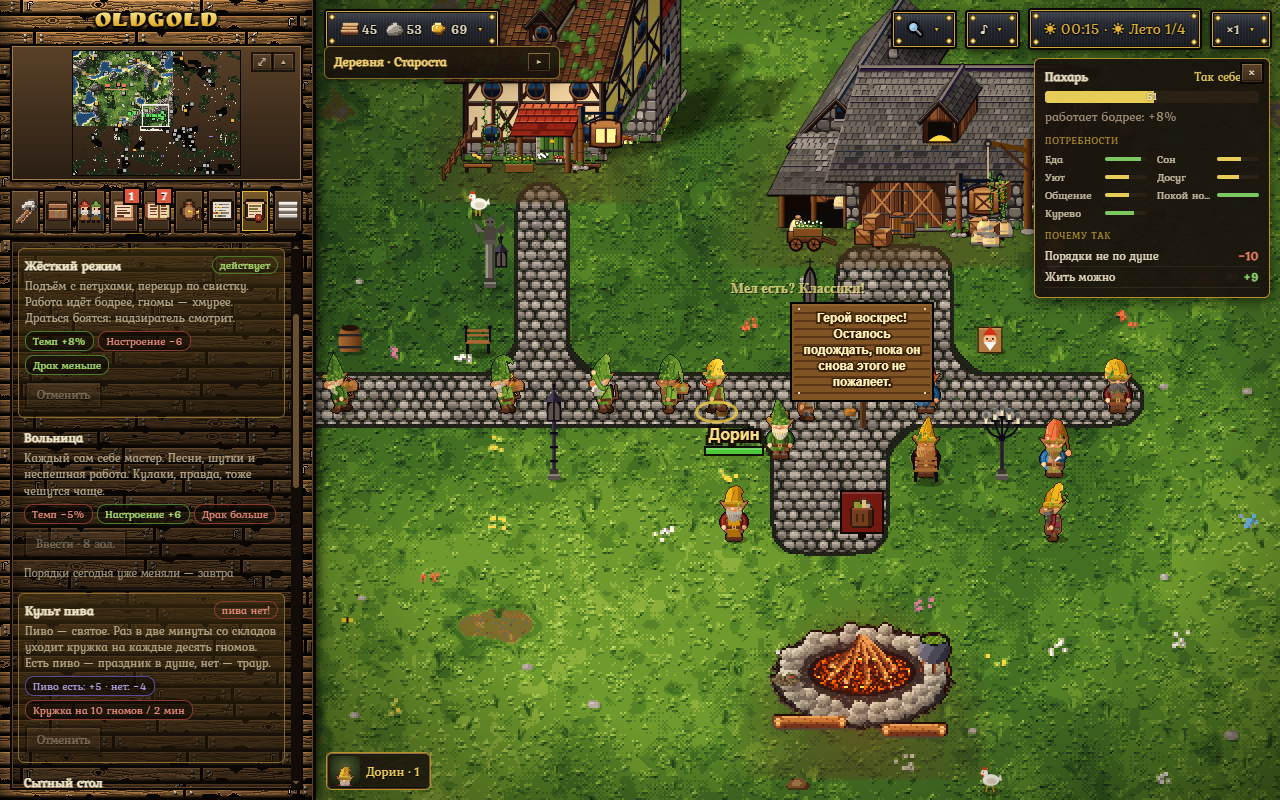
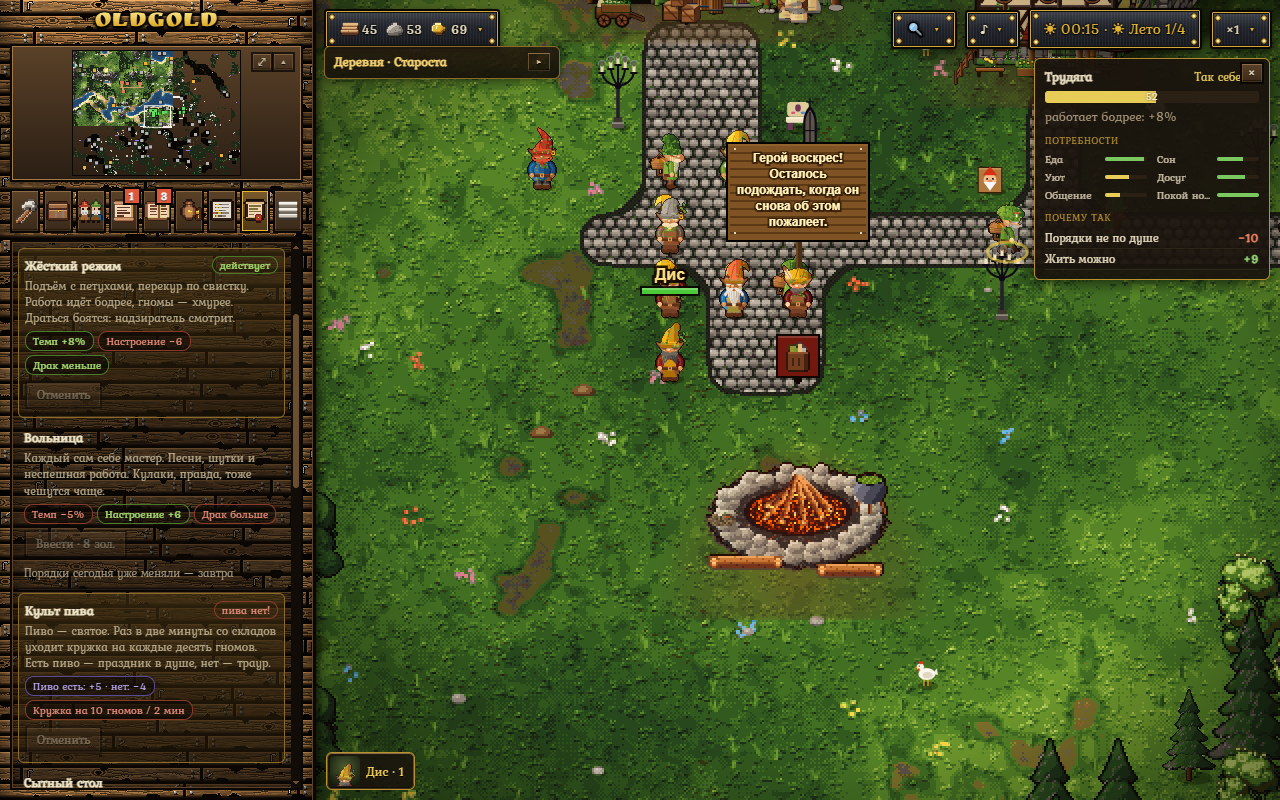
Табличка воскрешения: «когда он снова об этом пожалеет»; пересняты кадры поста 0.10.28

diff --git a/js/i18n/en-hero.js b/js/i18n/en-hero.js
@@ -179,7 +179,7 @@ I18N.add('en', {
   "Добро пожаловать обратно. Смерть тебе, видимо, не понравилась.": "Welcome back. Death, apparently, wasn't your thing.",
   "Гном возродился. Склад об этом пока не в курсе.": "A gnome has respawned. The storehouse isn't aware yet.",
   "Место для воскрешений. Скидок нет, гарантии тоже.": "A place for resurrections. No discounts, no warranty either.",
-  "Герой воскрес! Осталось подождать, пока он снова этого не пожалеет.": "The hero is back! Now we wait until they regret it again.",
+  "Герой воскрес! Осталось подождать, когда он снова об этом пожалеет.": "The hero is back! Now we wait until they regret it again.",
   "У костра тепло, а у гнома — привычка искать приключения.": "The bonfire is warm, and the gnome has a habit of seeking adventure.",
   "Смерть была неплоха, но ты решил продолжить. Смелое решение.": "Death wasn't bad, but you decided to carry on. Bold choice.",
   "Здесь выдают гномов повторно. Состояние — как у прежнего: так себе.": "Gnomes reissued here. Condition same as the previous one: meh.",

diff --git a/js/hero.js b/js/hero.js
@@ -66,7 +66,7 @@ const SPAWN_SIGNS = [
   'Добро пожаловать обратно. Смерть тебе, видимо, не понравилась.',
   'Гном возродился. Склад об этом пока не в курсе.',
   'Место для воскрешений. Скидок нет, гарантии тоже.',
-  'Герой воскрес! Осталось подождать, пока он снова этого не пожалеет.',
+  'Герой воскрес! Осталось подождать, когда он снова об этом пожалеет.',
   'У костра тепло, а у гнома — привычка искать приключения.',
   'Смерть была неплоха, но ты решил продолжить. Смелое решение.',
   'Здесь выдают гномов повторно. Состояние — как у прежнего: так себе.',

diff --git a/js/changelog.js b/js/changelog.js
@@ -15,6 +15,7 @@ const CHANGELOG = [
       'Кооп: хост начинает новый мир на своей карте прямо из игры — «Сервер ⟳» → «Новый мир» → карта из редактора; сервер проверяет её, старый мир уходит в архив. Игрокам ничего ставить не нужно',
     ],
     fixes: [
+      'Табличка у костра воскрешения: «Осталось подождать, когда он снова об этом пожалеет» — теперь без ошибки',
       'Выбор биома и размера в «Новой игре» снова работает: зима перехватывала старт и теряла параметры карты',
     ],
   },
